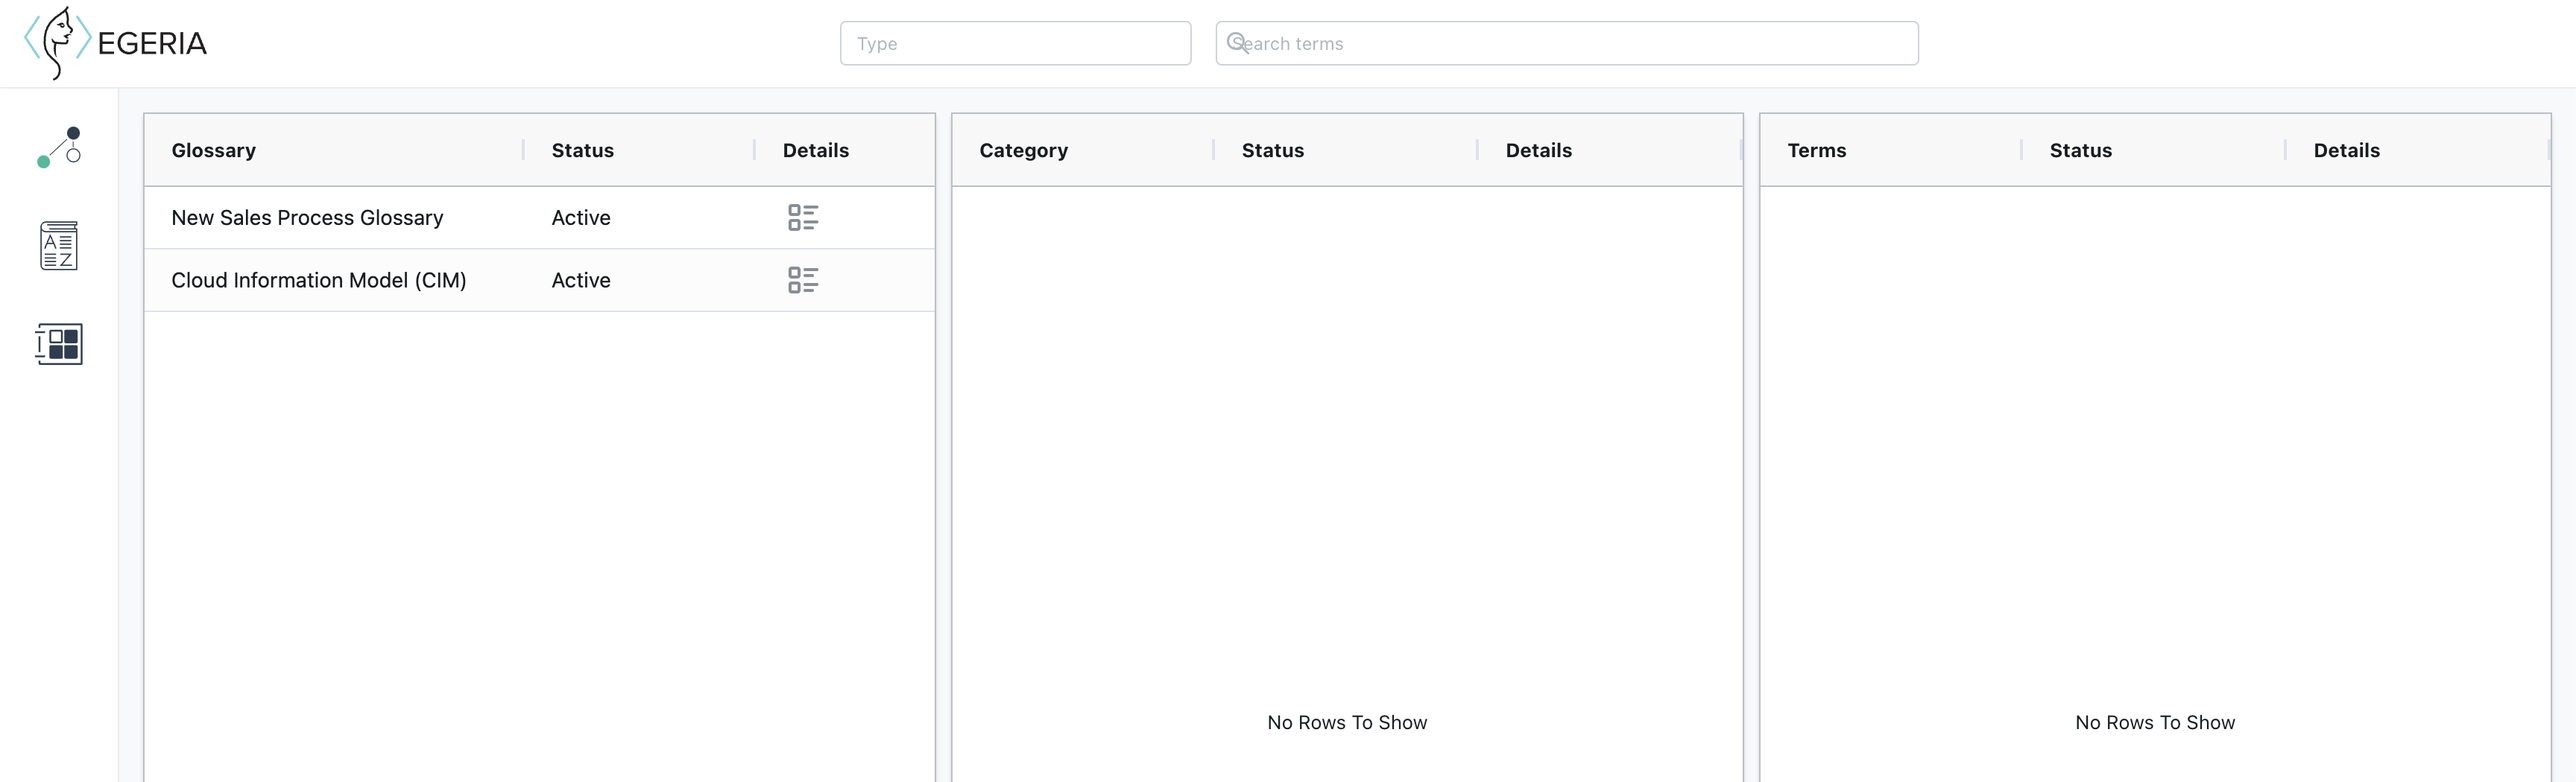
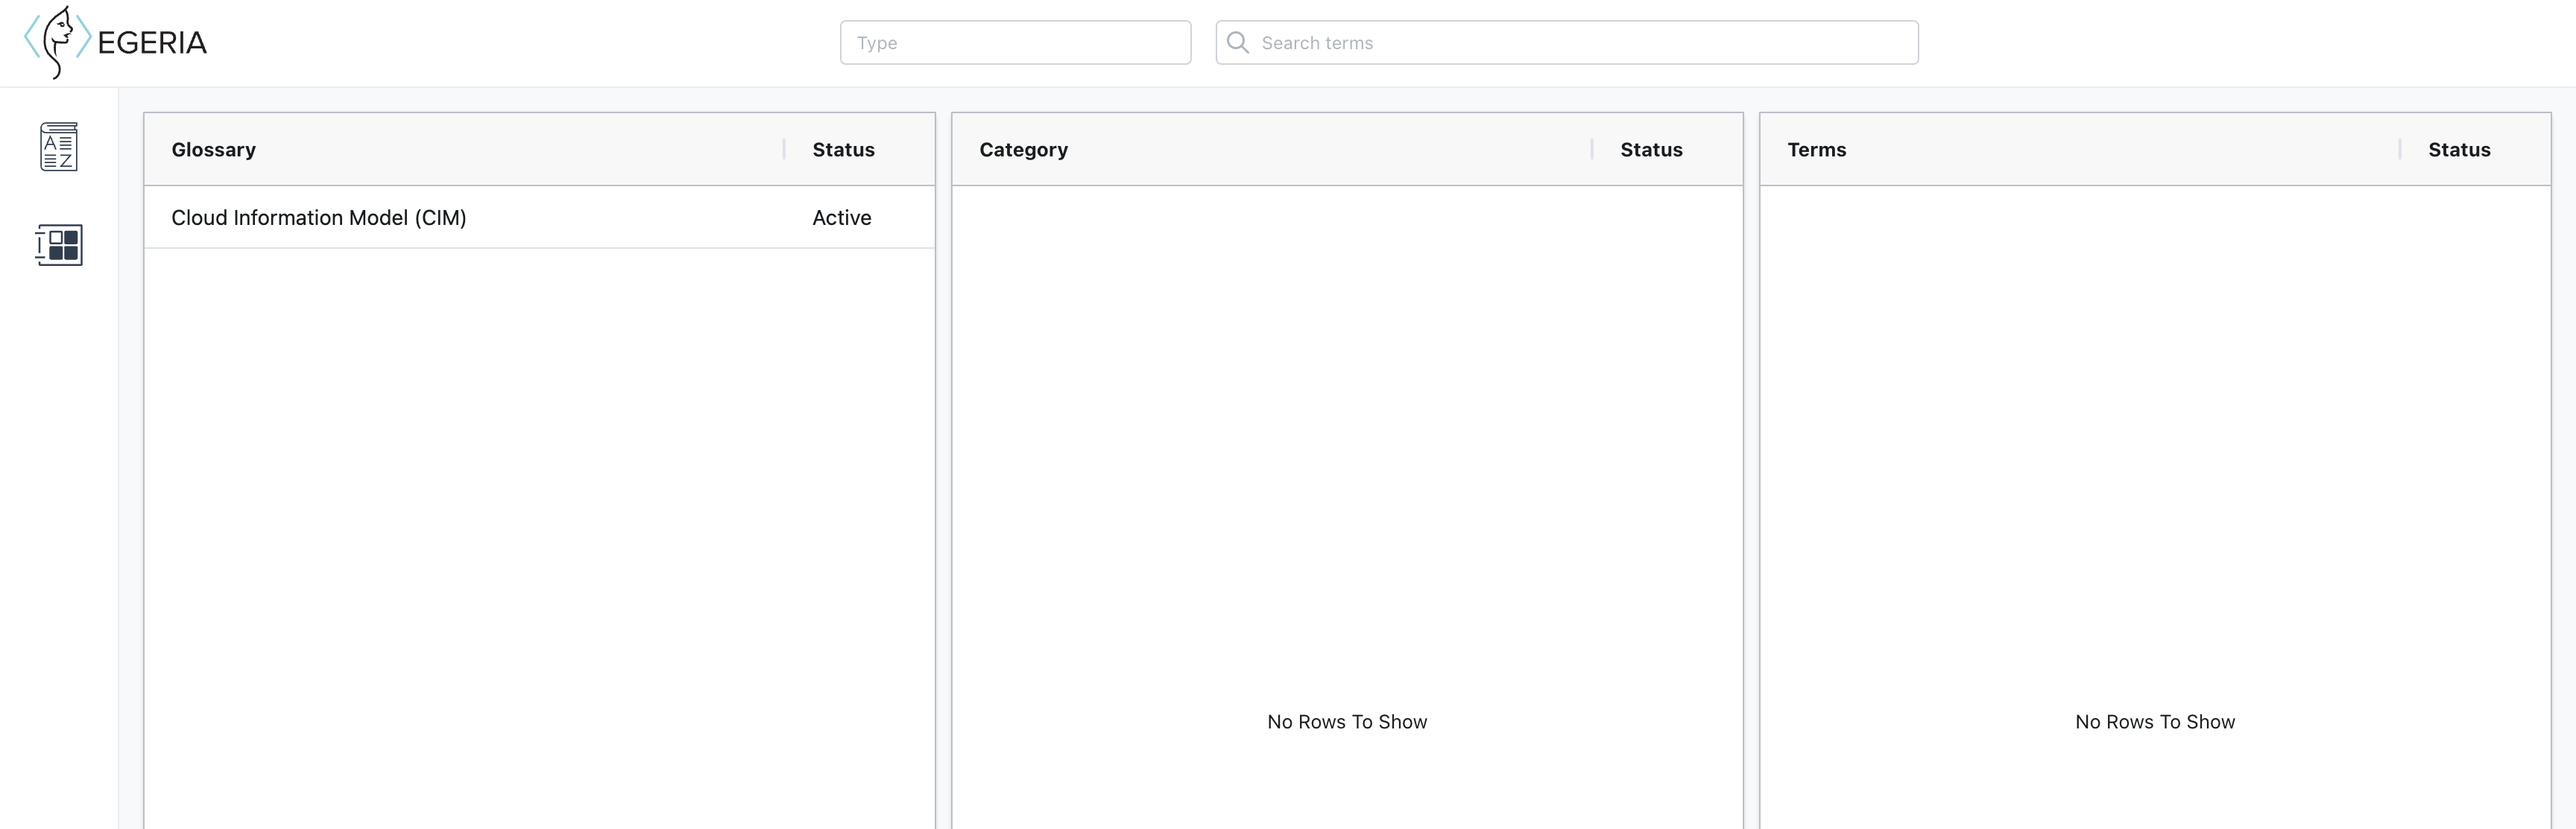
updated screenshots glossary

diff --git a/site/docs/user-interfaces/general/overview.md b/site/docs/user-interfaces/general/overview.md
@@ -59,14 +59,14 @@ On first load, the glossary is only able to show a list of available glossaries 
 
 ![glossary](egeria-ui-glossary.png)
 
-When clicking the `Details` button in third column of the glossary table, the categories connected to this respective glossary will be loaded.
-The properties of these categories are displayed in the same way as the glossaries; their name and status are visible and another `Details` button is available.
+When clicking anywhere on the row of the glossary, the categories connected to this respective glossary will be loaded in the next table.
+The properties of these categories are displayed in the same way as the glossaries; their name and status are visible.
 
-![category](egeria-ui-category.png)
+![category](egeria-ui-glossary-categories.png)
 
-Clicking this `Details` button will show the terms associated with its respective category. Each term in this case describes a concept or phrase used in the data model, and its `Details` button will redirect to the same `asset details` page as from the asset catalog.
+Clicking a cateogry row in this table will show the terms associated with its respective category. Each term in this case describes a concept or phrase used in the data model, and clicking on one of these terms rows will redirect to the same `asset details` page as from the asset catalog.
 
-![terms](egeria-ui-terms.png)
+![terms](egeria-ui-glossary-terms.png)
 
 ## Extended features
 
